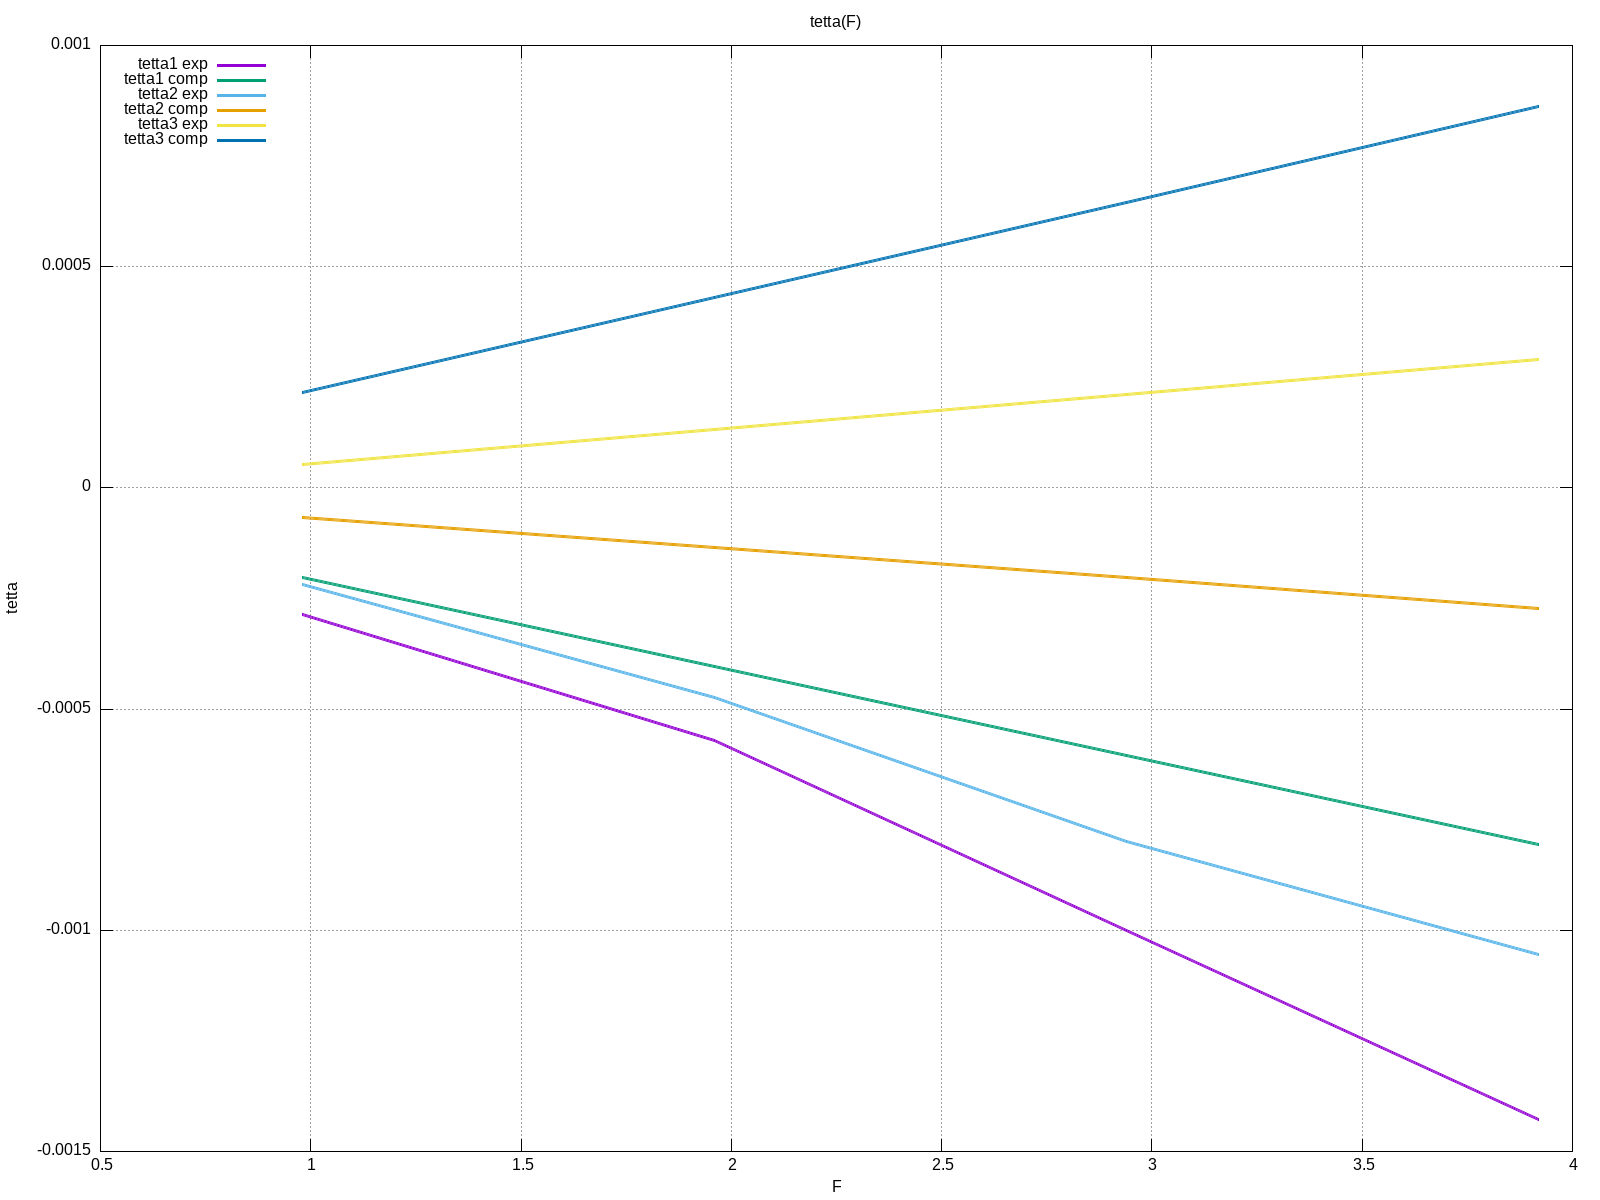
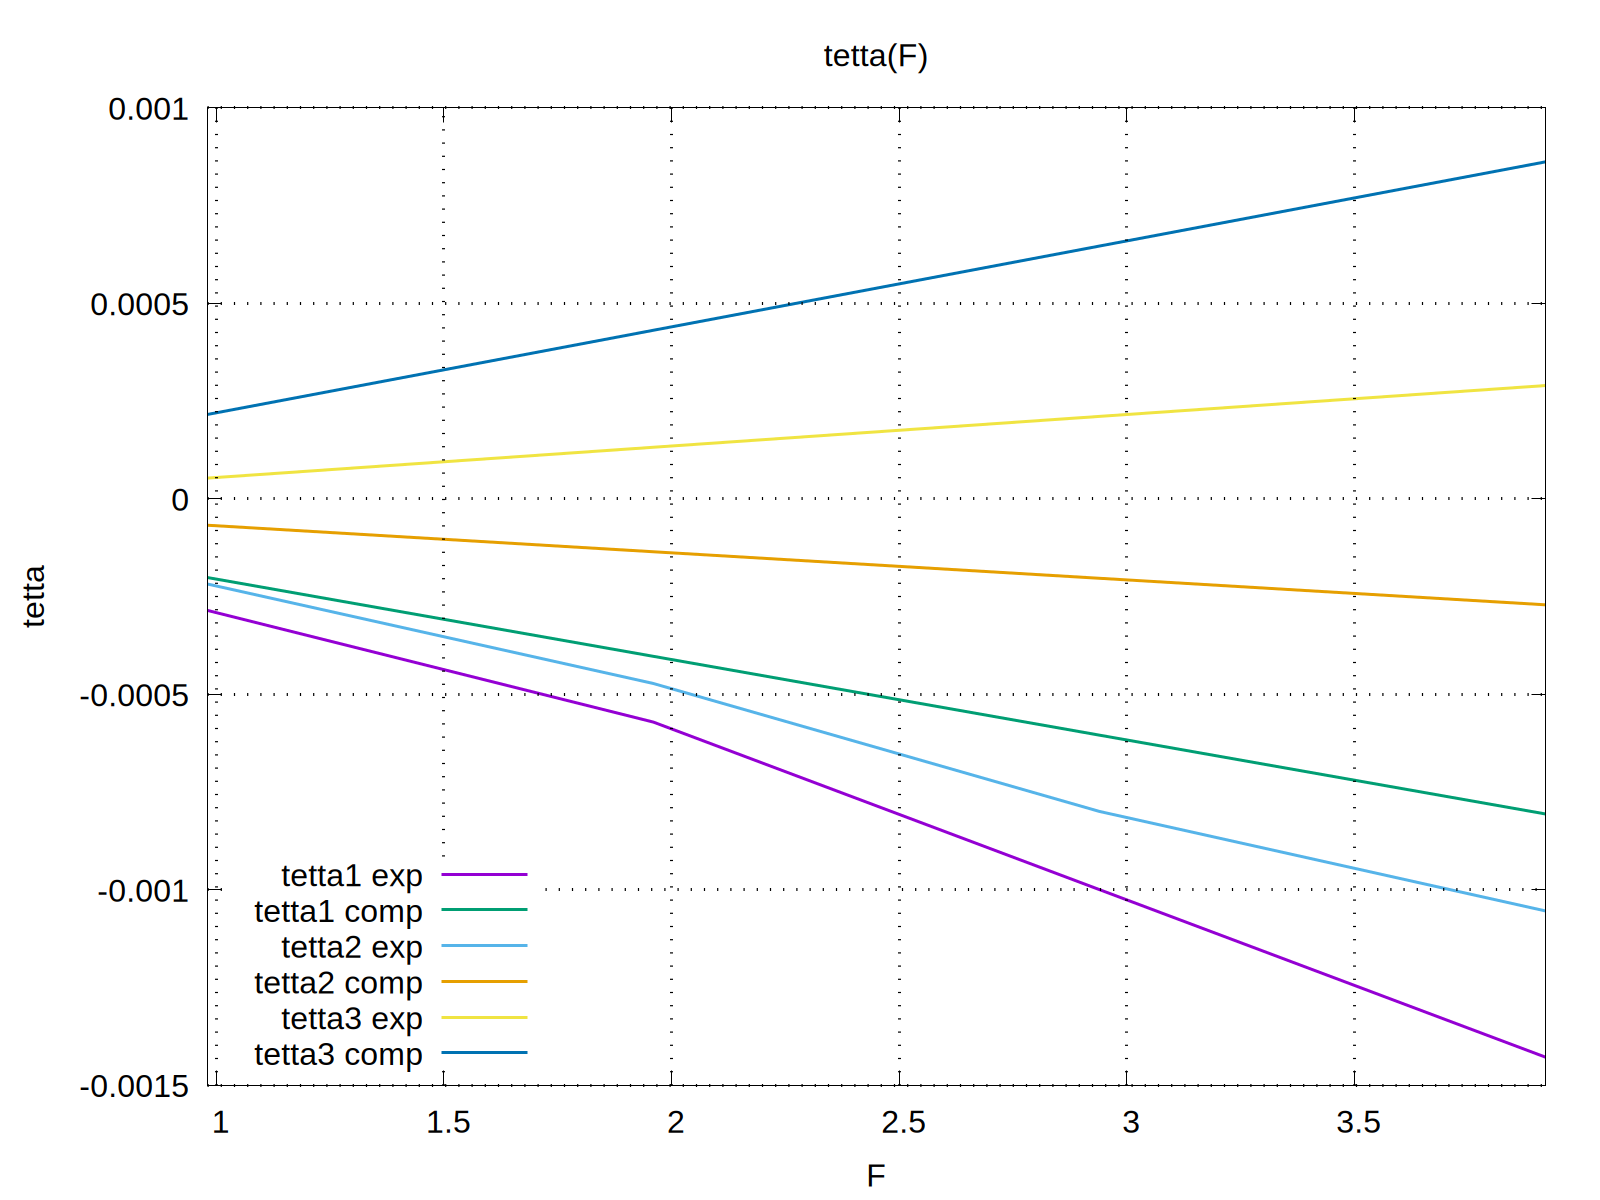
Change from m to mm

diff --git a/5/main.cpp b/5/main.cpp
@@ -38,17 +38,21 @@ constexpr double E = 2.5e11;
 using data_type = std::tuple<double, double, double, double>;
 
 struct aboba {
-  double R1() { return (L - p_dist) / L * P; }
-  double R2() { return p_dist / L * P; }
-  double compute_c1() {
+  static double compute_R1(double p_dist, double P) {
+    return (L - p_dist) / L * P;
+  }
+  static double compute_R2(double p_dist, double P) { return p_dist / L * P; }
+  static double compute_c1(double p_dist, double P) {
     return -1 *
-           (std::pow(l2 + l3, 3) * R1() / 6. -
+           (std::pow(l2 + l3, 3) * compute_R1(p_dist, P) / 6. -
             std::pow(l2 + l3 - p_dist, 3) * P / 6.) /
            (l2 + l3);
   }
-  double compute_c2() { return -l1 * c1; }
+  static double compute_c2(double c1) { return -l1 * c1; }
   aboba(double p_dist, double P)
-      : p_dist(p_dist), P(P), c1(compute_c1()), c2(compute_c2()) {}
+      : p_dist(p_dist), P(P), R1(compute_R1(p_dist, P)),
+        R2(compute_R2(p_dist, P)), c1(compute_c1(p_dist, P)),
+        c2(compute_c2(c1)) {}
 
 public:
   double y(double z) { return y_private(z) / E / I_xx; }
@@ -60,15 +64,15 @@ private:
       return c2 + c1 * z;
     }
     if (z < l1 + p_dist) {
-      return c2 + c1 * z + std::pow(z - l1, 3) * R1() / 6.;
+      return c2 + c1 * z + std::pow(z - l1, 3) * R1 / 6.;
     }
     if (z < l1 + l2 + l3) {
-      return c2 + c1 * z + std::pow(z - l1, 3) * R1() / 6. -
+      return c2 + c1 * z + std::pow(z - l1, 3) * R1 / 6. -
              std::pow(z - p_dist - l1, 3) * P / 6.;
     }
-    return c2 + c1 * z + std::pow(z - l1, 3) * R1() / 6. -
+    return c2 + c1 * z + std::pow(z - l1, 3) * R1 / 6. -
            std::pow(z - p_dist - l1, 3) * P / 6. +
-           std::pow(z - l1 - l2 - l3, 3) * R2() / 6.;
+           std::pow(z - l1 - l2 - l3, 3) * R2 / 6.;
   }
   double tetta_private(double z) {
 
@@ -76,17 +80,17 @@ private:
       return c1;
     }
     if (z < l1 + p_dist) {
-      return c1 + std::pow(z - l1, 2) * R1() / 2.;
+      return c1 + std::pow(z - l1, 2) * R1 / 2.;
     }
     if (z < l1 + l2 + l3) {
-      return c1 + std::pow(z - l1, 2) * R1() / 2. -
+      return c1 + std::pow(z - l1, 2) * R1 / 2. -
              std::pow(z - p_dist - l1, 2) * P / 2.;
     }
-    return c1 + std::pow(z - l1, 2) * R1() / 2. -
+    return c1 + std::pow(z - l1, 2) * R1 / 2. -
            std::pow(z - p_dist - l1, 2) * P / 2. +
-           std::pow(z - l1 - l2 - l3, 2) * R2() / 2.;
+           std::pow(z - l1 - l2 - l3, 2) * R2 / 2.;
   }
-  double p_dist, P, c1, c2;
+  double p_dist, P, R1, R2, c1, c2;
 };
 
 auto compute(double p_dist, const std::string &file_name) {
@@ -96,14 +100,17 @@ auto compute(double p_dist, const std::string &file_name) {
            return std::make_tuple(N * F, t1 * K, t2 * K, t3 * K);
          }) |
          std::views::transform([p_dist](const auto &e) {
+           double k = 1000.;
            auto [P, y1, y2, y3] = e;
            auto abo = aboba(p_dist, P);
            auto tetta_exp = std::make_tuple(-y1 / l1, y2 / l2, y3 / l3);
-           auto y_comp = std::make_tuple(abo.y(0), abo.y(l1 + l2),
-                                         abo.y(l1 + l2 + l3 + l4));
+           auto y_comp = std::make_tuple(abo.y(0) * k, abo.y(l1 + l2) * k,
+                                         abo.y(l1 + l2 + l3 + l4) * k);
+
            auto tetta_comp = std::make_tuple(abo.tetta(0), abo.tetta(l1 + l2),
                                              abo.tetta(l1 + l2 + l3 + l4));
-           return std::tuple_cat(e, tetta_exp, y_comp, tetta_comp);
+           return std::tuple_cat(std::make_tuple(P, y1 * k, y2 * k, y3 * k),
+                                 tetta_exp, y_comp, tetta_comp);
          });
 }
 

diff --git a/utils.h b/utils.h
@@ -108,7 +108,7 @@ std::pair<double, double> compute_data_stat(DataLike auto &&data) {
   return std::make_pair(mean, s);
 }
 
-static double student_coef(size_t n, double alpha) {
+inline double student_coef(size_t n, double alpha) {
   if (n <= 1) {
     return 0.0;
   }

diff --git a/README.md b/README.md
@@ -2,3 +2,4 @@
 Здесь будут лежать лабы за 3-1/26.
 
 g++-14 -std=c++23 -fsanitize=address,undefined main.cpp
+g++-14 -std=c++23 -fsanitize=address,undefined -fno-omit-frame-pointer -g main.cpp
